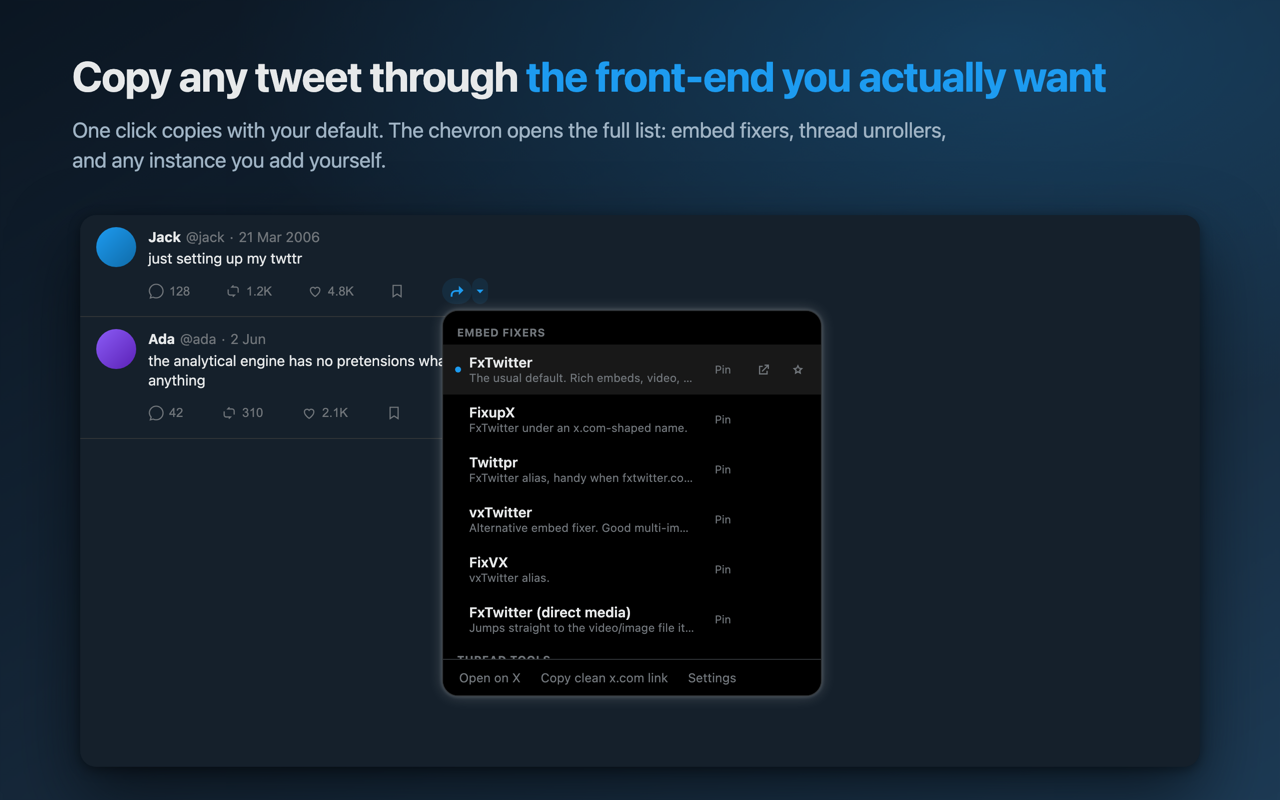
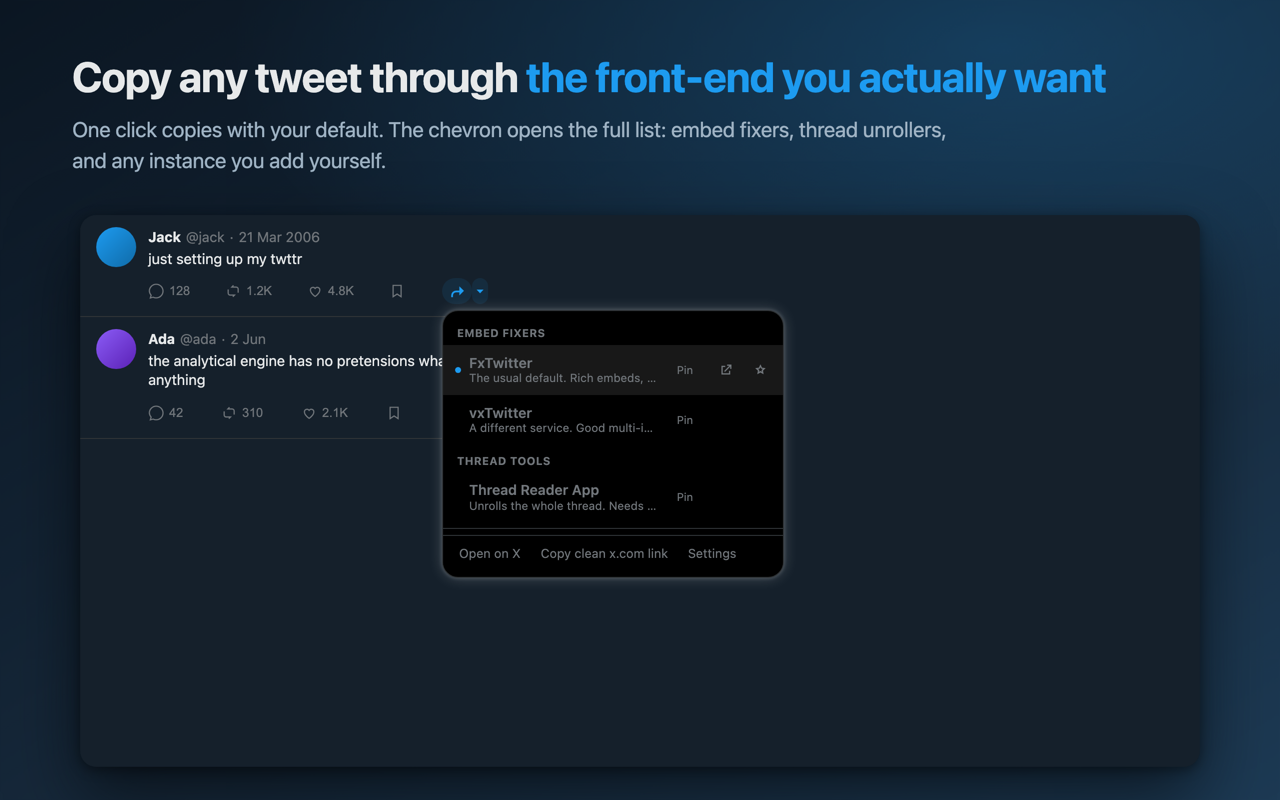
Re-render the store assets from 1.4.0 (no version change)
The six images in store/assets/ were rendered on 14 September and showed a
UI that no longer exists. Rendering them again took three fixes to the
tool before the output was the product.

The stubs had fallen behind. The options page opened the first-run picker
over the panel being photographed, because nothing had marked it done; the
stub now seeds pickerDone. The mock X page did not load lib/i18n.js, which
the content script has needed since 1.3.0, so XITI18N was undefined and
the button never mounted. And without a chrome.i18n, every string built in
JavaScript came out as '' rather than English, so the stub now serves the
real _locales catalogue through a getMessage of its own, placed ahead of
lib/i18n.js because that library looks for the API once as it loads.

The capture was the hard one. With the stubs fixed, the hero still showed
no menu, while a DOM dump of the same page showed the menu open, laid out
and visible, and an on-page readout painted into the same screenshot said
so too. Eleven variants later (inline styles, a red outline, a clone, a
re-attached node, no focus, no scrollIntoView, real time instead of
virtual, GPU on) the pattern was not consistent enough to name a cause
beyond "Chrome 156's --screenshot flag does not reliably paint this
element". A capture through the DevTools protocol shows it every time.
The tool now runs one headless Chrome for the whole set, navigates to
each page, waits for load plus a settle, and asks for the pixels. No
[…]

diff --git a/tools/store-assets/stub.js b/tools/store-assets/stub.js
@@ -5,10 +5,38 @@
   if (params.get('custom') === '1') {
     seed.custom = [{ id: 'c-my-instance', name: 'My instance', group: 'custom', template: 'https://links.example.net/{path}{query}', requires: [], note: '' }];
   }
-  let store = { settings: Object.keys(seed).length ? seed : undefined };
+  // The first-run picker opens itself on a fresh profile. A store image is
+  // of the page behind it, so this profile has been through it already.
+  seed.pickerDone = true;
+  let store = { settings: seed };
+
+  // The shipped catalogue, read synchronously because getMessage is. The
+  // staging root is a copy of src/, so this is the same file the build packs.
+  // Without it every string built in JavaScript would come out empty, and the
+  // content script's button and menu are nothing but such strings.
+  const catalogue = (() => {
+    try {
+      const xhr = new XMLHttpRequest();
+      xhr.open('GET', '_locales/en/messages.json', false);
+      xhr.send();
+      return xhr.status === 200 ? JSON.parse(xhr.responseText) : {};
+    } catch (_) { return {}; }
+  })();
+  function getMessage(key, subs) {
+    const entry = catalogue[key];
+    if (!entry) return '';
+    const list = subs == null ? [] : [].concat(subs);
+    const numbered = (text) => text.replace(/\$(\d+)/g, (_, n) => list[Number(n) - 1] == null ? '' : String(list[Number(n) - 1]));
+    let text = entry.message;
+    for (const [name, ph] of Object.entries(entry.placeholders || {})) {
+      text = text.split(new RegExp('\\$' + name + '\\$', 'gi')).join(numbered(ph.content || ''));
+    }
+    return numbered(text).replace(/\$\$/g, '$');
+  }
   const ls = [];
   const session = {};
   window.chrome = {
+    i18n: { getMessage },
     runtime: {
       onMessage: { addListener: () => {} },
       sendMessage: (message, cb) => {

diff --git a/tools/store-assets/mock-x.html b/tools/store-assets/mock-x.html
@@ -49,6 +49,7 @@
 </div></article>
 
 <script src="stub.js"></script>
+<script src="lib/i18n.js"></script>
 <script src="lib/redirectors.js"></script>
 <script src="lib/storage.js"></script>
 <script src="content/inject.js"></script>

diff --git a/HANDOFF.md b/HANDOFF.md
@@ -33,15 +33,25 @@ traps. For how the extension works and how to build it, read the
    with itself, not that Chrome and Firefox agree with it. This is the only
    item here that can actually fail, so it goes first.
 
-2. **Re-render the screenshots**, then upload them on the Store listing tab.
+2. **Upload the screenshots and promo tiles** from `store/assets/` on the Store
+   listing tab. They were re-rendered from 1.4.0 on 6 November 2026 and show
+   the current UI; the live listing still carries the 1.0.3 images. A listing
+   edit gets a light review and needs no version bump. To render them again
+   after a UI change:
 
    ```bash
    npm run store-assets   # needs a real Chrome on the host
    ```
 
-   The four images in `store/assets/` predate every control added since 1.1.0,
-   so the live listing shows a version of xIT that no longer exists. A listing
-   edit gets a light review and needs no version bump.
+   The tool drives Chrome over its DevTools protocol. It used to use Chrome's
+   own `--screenshot` flag, and in Chrome 156 that captured the content
+   script's open menu as nothing at all while the DOM said it was open and
+   visible; the live capture does not have that gap. Two of the stubs had
+   also fallen behind the product: the first-run picker was covering the
+   Settings page, and the mock X page did not load `lib/i18n.js`, which the
+   content script has needed since 1.3.0. Both are fixed, and the stub now
+   serves the real `_locales` catalogue so that nothing built in JavaScript
+   comes out blank.
 
 3. **Upload `dist/xit-chrome-1.4.0.zip`.** It supersedes the unuploaded 1.0.4
    to 1.3.9 packages. Since the live listing is 1.0.3, the changes a reviewer
